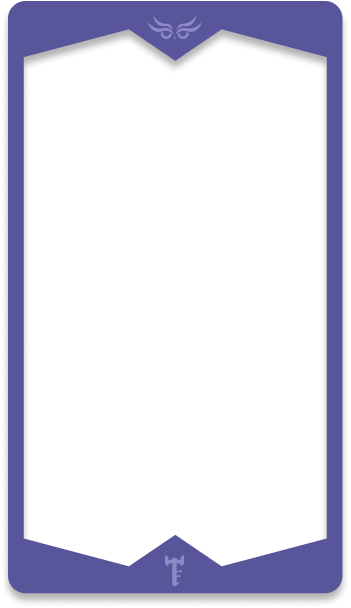
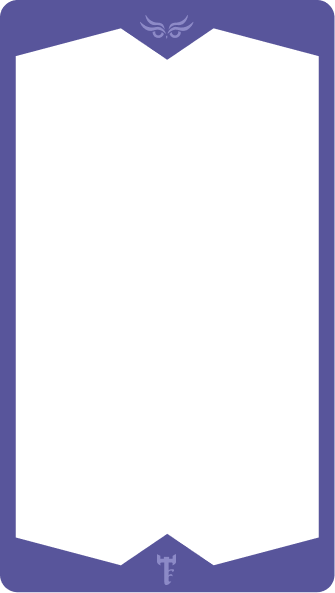
pop up ajoutées

Changed region(s): [[0.0, 0.0, 1.0, 1.0]]

diff --git a/script.js b/script.js
@@ -15,29 +15,95 @@ const customIcon = L.icon({
     popupAnchor: [0, 200],
 })
 
-const contentRade = `<h1>Position stratégique</h1>
-                    <p>Ici, on parle des Ennemis de la République.</p>
-                    <a href="poi2.html?id=carte2">Voir plus >></a>`
+const contentRade = `<div class="fermer">
+                        <a class="close_link" href="index.html">
+                          <img src="./images/fleche_retour.png" alt="Flèche retour">
+                          <p>retour</p>
+                        </a>
+                      </div>
+                      <div class="cartes-container">
+                        <div class="stroke">
+                            <a href="poi2.html?id=carte2"><img src="./images/carte_stroke.png" alt=""></a>
+                        </div>
+                        <div class="img_carte">
+                            <img src="./images/img_carte2.png" alt="">
+                        </div>
+                      </div>`
 
-const contentGlacis_chemins = `<h1>Contrôler sans être vu</h1>
-                                <p>Ici, on cause architecture.</p>
-                                <a href="poi3.html?id=carte3">Voir plus >></a>`
+const contentGlacis_chemins = `<div class="fermer">
+                                <a class="close_link" href="index.html">
+                                  <img src="./images/fleche_retour.png" alt="Flèche retour">
+                                  <p>retour</p>
+                                </a>
+                              </div>
+                              <div class="cartes-container">
+                                <div class="stroke">
+                                    <a href="poi3.html?id=carte3"><img src="./images/carte_stroke.png" alt=""></a>
+                                </div>
+                                <div class="img_carte">
+                                    <img src="./images/img_carte3.png" alt="">
+                                </div>
+                              </div>`
 
-const contentDouves = `<h1>L'ennemi piégé</h1>
-                        <p>L'eau glouglou en gros ils se noyaient ces gros neuils.</p>
-                        <a href="poi4.html?id=carte4">Voir plus >></a>`
+const contentDouves = `<div class="fermer">
+                        <a class="close_link" href="index.html">
+                          <img src="./images/fleche_retour.png" alt="Flèche retour">
+                          <p>retour</p>
+                        </a>
+                      </div>
+                      <div class="cartes-container">
+                        <div class="stroke">
+                            <a href="poi4.html?id=carte4"><img src="./images/carte_stroke.png" alt=""></a>
+                        </div>
+                        <div class="img_carte">
+                            <img src="./images/img_carte4.png" alt="">
+                        </div>
+                      </div>`
 
-const contentSixFours = `<h1>Défense en réseau</h1>
-                        <p>Communication en sémaphores.</p>
-                        <a href="poi5.html?id=carte5">Voir plus >></a>`
+const contentSixFours = `<div class="fermer">
+                        <a class="close_link" href="index.html">
+                          <img src="./images/fleche_retour.png" alt="Flèche retour">
+                          <p>retour</p>
+                        </a>
+                      </div>
+                      <div class="cartes-container">
+                        <div class="stroke">
+                            <a href="poi5.html?id=carte5"><img src="./images/carte_stroke.png" alt=""></a>
+                        </div>
+                        <div class="img_carte">
+                            <img src="./images/img_carte5.png" alt="">
+                        </div>
+                      </div>`
 
-const contentSablettes = `<h1>Fort de mer</h1>
-                        <p>Guette la anse des Sablettes.</p>
-                        <a href="poi6.html?id=carte6">Voir plus >></a>`
+const contentSablettes = `<div class="fermer">
+                        <a class="close_link" href="index.html">
+                          <img src="./images/fleche_retour.png" alt="Flèche retour">
+                          <p>retour</p>
+                        </a>
+                      </div>
+                      <div class="cartes-container">
+                        <div class="stroke">
+                            <a href="poi6.html?id=carte6"><img src="./images/carte_stroke.png" alt=""></a>
+                        </div>
+                        <div class="img_carte">
+                            <img src="./images/img_carte6.png" alt="">
+                        </div>
+                      </div>`
                         
-const contentFin = `<h1>À travers le temps</h1>
-                        <p>Seconde Guerre Mondiale tout ça tout ça.</p>
-                        <a href="poi7.html?id=carte7">Voir plus >></a>`  
+const contentFin = `<div class="fermer">
+                        <a class="close_link" href="index.html">
+                          <img src="./images/fleche_retour.png" alt="Flèche retour">
+                          <p>retour</p>
+                        </a>
+                      </div>
+                      <div class="cartes-container">
+                        <div class="stroke">
+                            <a href="poi7.html?id=carte7"><img src="./images/carte_stroke.png" alt=""></a>
+                        </div>
+                        <div class="img_carte">
+                            <img src="./images/img_carte7.png" alt="">
+                        </div>
+                      </div>`  
 
 const contentDebut = `<div class="fermer">
                         <a class="close_link" href="index.html">
@@ -45,11 +111,13 @@ const contentDebut = `<div class="fermer">
                           <p>retour</p>
                         </a>
                       </div>
-                      <div class="stroke">
-                        <img src="./images/carte_stroke.png" alt="">
-                      </div>
-                      <div class="img_carte">
-                        <a href="poi1.html?id=carte1"><img src="./images/img_carte1.png" alt=""></a>
+                      <div class="cartes-container">
+                        <div class="stroke">
+                            <a href="poi1.html?id=carte1"><img src="./images/carte_stroke.png" alt=""></a>
+                        </div>
+                        <div class="img_carte">
+                            <img src="./images/img_carte1.png" alt="">
+                        </div>
                       </div>` 
 
 function addCenteredMarker(lat, lng, icon, popupContent) {

diff --git a/map.css b/map.css
@@ -45,15 +45,28 @@ img.leaflet-marker-icon.leaflet-zoom-animated.leaflet-interactive {
 
 div.leaflet-popup-content-wrapper {
     width: 300px;
-    height: 450px;
+    height: 470px;
     border-radius: 25px;
 }
 
+.leaflet-popup-content-wrapper,
+.leaflet-popup-tip {
+    background: transparent;
+    box-shadow: none;
+    border: none;
+}
+
 div.leaflet-popup-content {
-  width: 100%;
-  height: 100%;
-  margin: 0;
-  position: relative;
+    margin: 0;
+    width: 100vw;
+    max-width: none;
+    height: auto;
+    padding: 0;
+}
+
+.leaflet-popup-content > * {
+    margin: 0;
+    padding: 0;
 }
 
 div.leaflet-popup-tip-container > div {
@@ -64,30 +77,62 @@ div.leaflet-pane.leaflet-popup-pane > div > a {
     display: none;
 }
 
-.fermer {
-    position: absolute;
+.close_link {
+  display: flex;
+  align-items: center;
+  gap: 5px;
+  text-decoration: none;
+  position: relative;
+  z-index: 3;
+  top: -4px;
+  left: 27px;
 }
 
+.close_link img {
+    height: 12px;
+}
+
+.close_link p {
+    color: var(--blanc);
+    font-family: 'Josefin Sans';
+    font-size: 12px;
+}
+
+.carte-container {
+    width: 100%;
+    height: auto;
+    display: block;
+    margin: 0;
+    padding: 0;
+}
+
+.img_carte,
 .stroke {
+    position: absolute;
+    top: 0;
+    left: 0;
     width: 100%;
     height: 100%;
-    position: absolute;
+}
+
+.img_carte img {
+    width: 100%;
+    height: 100%;
+    object-fit: contain;
+    object-position: center;
+    display: block;
+    filter: hue-rotate(263deg) saturate(0.4);
 }
 
 .stroke img {
-    filter: hue-rotate(263deg) saturate(0.4);
     width: 100%;
     height: 100%;
-    /* display: block; */
     object-fit: contain;
+    object-position: center;
+    display: block;
+    filter: hue-rotate(263deg) saturate(0.4) drop-shadow(0 4px 6px rgba(0, 0, 0, 0.5));
+}
+
+.stroke {
     z-index: 2;
-}
-
-.img_carte {
-    position: absolute;
-}
-
-.img_carte a img {
-    width: 100%;
-    z-index: 1;
 }
